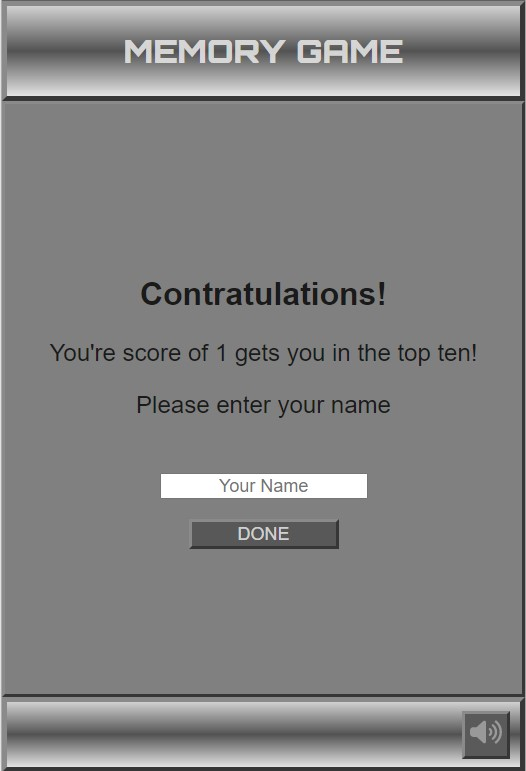
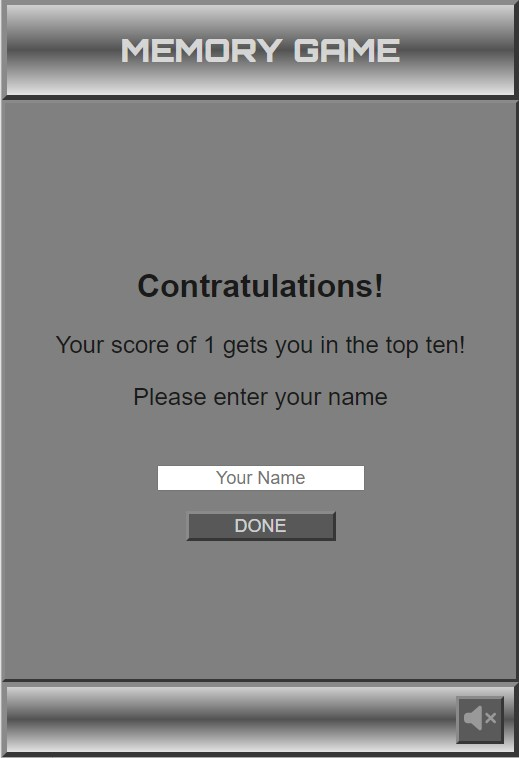
Docs: Update name entry modal image in readme

diff --git a/README.md b/README.md
@@ -254,7 +254,7 @@ The game is extremely easy to learn for those who are new to it and the combinat
 
     All of the SVG clickable buttons have a role attribute with the value ‘button’ and an aria label to describe them in the event that the site is being used with screen reading technology, maximising accessibility.
 
-    The game pad is respinsive and rescales as necessary to fit the screen on which it is viewed. It will always retain the same shape and arrangement of the buttons as this is a key design feature of the game and helps the game retain its identity when viewed on devices of different sizes. 
+    The game pad is responsive and rescales as necessary to fit the screen on which it is viewed. It will always retain the same shape and arrangement of the buttons as this is a key design feature of the game and helps the game retain its identity when viewed on devices of different sizes. 
 
     - **Game pad during play**
 
@@ -303,7 +303,7 @@ The game is extremely easy to learn for those who are new to it and the combinat
 
     - The 'Mute/Unmute button' (ID 2) [Feature](docs/pdfs/readme-feature-acceptance-criteria.pdf) is a dependency of [user stories 1 and 2](docs/pdfs/readme-user-stories.pdf).
     - Mute/Unmute button is implemented in [index.html](index.html)
-    - Mute/Unmute button functionailty is implemented in [game-script.js](assets/js/game-script.js)
+    - Mute/Unmute button functionality is implemented in [game-script.js](assets/js/game-script.js)
 
     The mute/unmute button gives the player the option of whether or not to have game tones. 
 
@@ -362,7 +362,7 @@ The game is extremely easy to learn for those who are new to it and the combinat
 
     On pressing ‘done’ on the name entry modal with a valid string present in the name entry input box, the nameInput function updates the top ten array with the new name against the new score, sorts the array content so that the new score entry is in the correct position in the top ten array and then displays the top ten modal with the new table data in it for the player to review their position in the scoreboard. 
 
-    The updateTopTenTable function that updates the top ten table with the new data also updates the browsers local storage with the data for future reference should the player close the browser or tab and revisit the site another day in which case the data would be pulled from the local store to populate the top ten table. 
+    The updateTopTenTable function that updates the top ten table with the new data also updates the browsers local storage with the data for future reference should the player close the browser or tab and revisit the site another day in which case the data would be pulled from the local storage to populate the top ten table. 
 
     Lastly, the start button is un-blanked so that the player can play again if they wish to.
 
